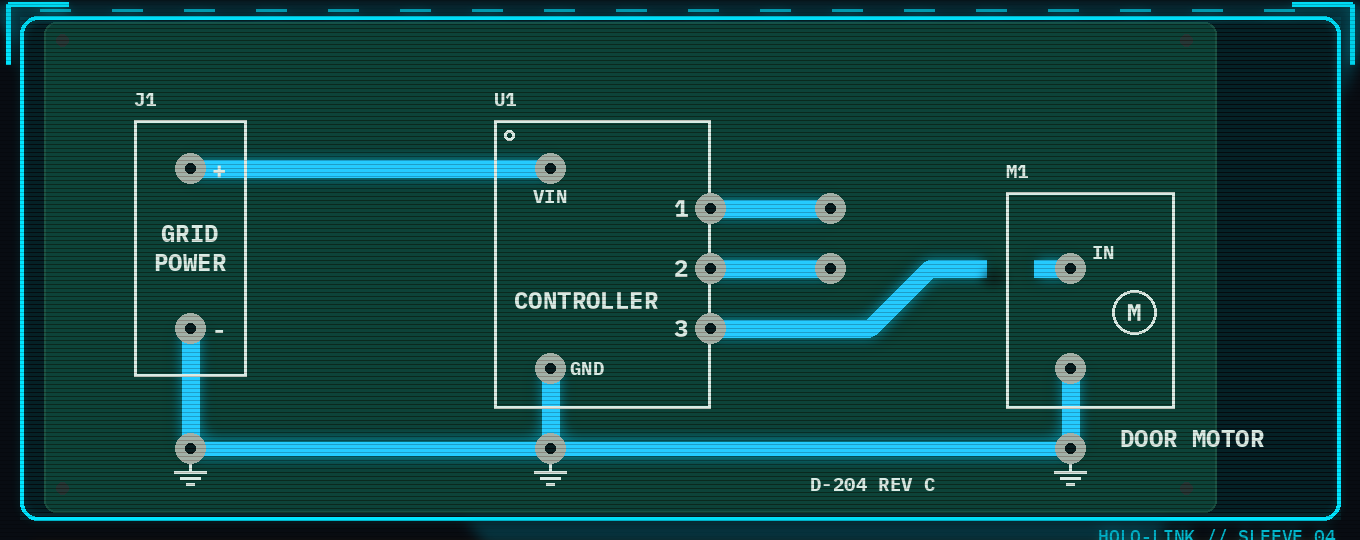
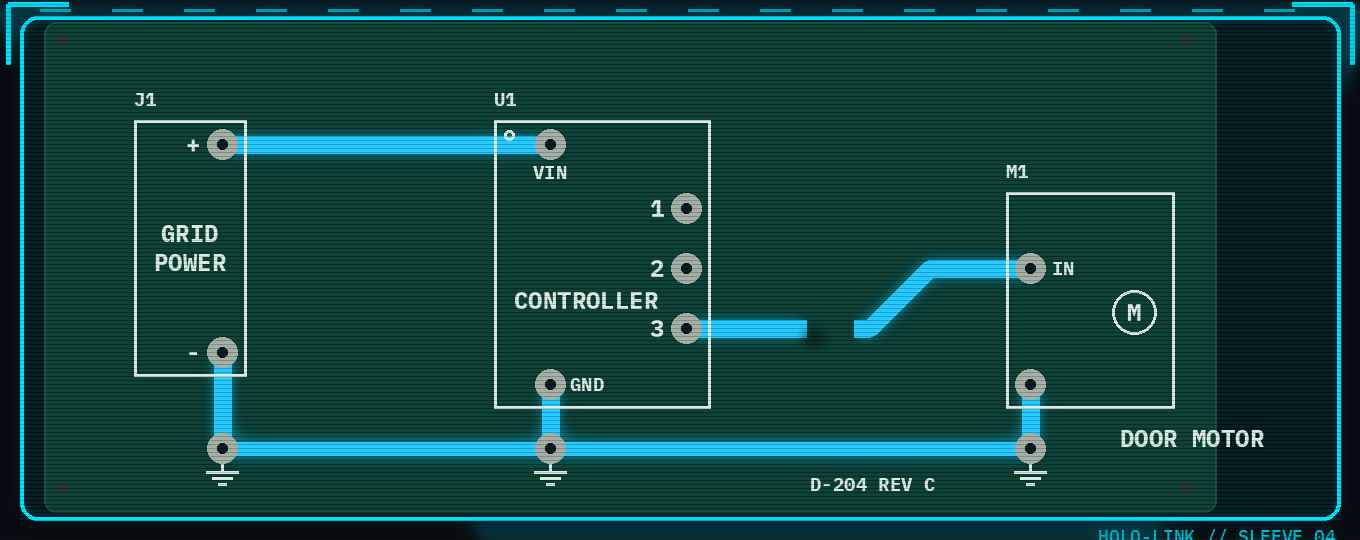
Sloane: simple final rev2 - break mid-trace, pads inset from silkscreen (7.5px), P1/P2 stubs+TP pads removed (intentional NC)

diff --git a/design/ui/troubleshoot_simple_final/README.md b/design/ui/troubleshoot_simple_final/README.md
@@ -3,10 +3,12 @@ Source: simple r3 #03 holo_panels, picked by Jared with changes.
 
 - **Board:** green PCB and off-white silkscreen from r2/r3, inside the cyan/amber wrist-holo frame (#03 chrome level).
 - **Traces:** uniform blue neon. There is no current-flow animation and no brightness variation, so lit versus unlit doesn't hint at anything.
-- **Fault:** the U1 pin 3 → M1.IN (DOOR MOTOR input) trace has a missing chunk and a subtle burn, with no spark. GRID POWER → U1.VIN is intact. Pins 1 and 2 are bare stubs.
+- **Fault:** the U1 pin 3 → M1.IN (DOOR MOTOR input) trace has a missing chunk and a subtle burn, with no spark. GRID POWER → U1.VIN is intact. The break sits mid-trace, clear of all silkscreen. Pins 1 and 2 are bare pads with no trace (intentional no-connects; the player draws the trace).
 - **Python:** the only editable value is `MOTOR_PIN` (amber entry box, default 1, correct 3).
 - **Decision: no RUN button.** The value applies when the player commits the entry box, by pressing Enter or leaving the field (focus-out). DUTY was removed.
 - **Win:** repair the break AND set `MOTOR_PIN = 3`. The window never auto-closes; it closes only on EXIT.
 - **No hints:** consumables show as icons with quantities only.
 
 Files: `troubleshoot_simple_final_mockup.png`, `troubleshoot_simple_final_board_only.png`, `simple_final_netlist.json/.md`, `simple_final_board_geom.json`, `validation_report.md`.
+
+**Pad placement (rev 2):** every component pad sits inside its silkscreen outline, close to the edge. The gap from pad edge to outline is 7.5 px at 40 px/grid (pad r = 15 px, silkscreen line 3 px). The break is 96 px from the nearest outline.

diff --git a/design/ui/troubleshoot_simple_final/simple_final_netlist.md b/design/ui/troubleshoot_simple_final/simple_final_netlist.md
@@ -6,15 +6,14 @@ From r3 #03 holo_panels. Geometry: `simple_final_board_geom.json`.
 | J1 | GRID POWER | hab grid feed | +, − |
 | U1 | CONTROLLER | door controller | VIN, GND, P1 / P2 / P3 (silk 1 / 2 / 3) |
 | M1 | DOOR MOTOR | hatch actuator motor | IN, GND |
-| TP1, TP2 | — | bare landing pads | 1 |
 | GND1–GND3 | ⏚ | ground ties, joined on bottom layer | 1 |
 
 | Net | Nodes | Notes |
 |---|---|---|
 | GRID_V+ | J1.+ → U1.VIN | intact |
 | GND | J1.− → GND1, U1.GND → GND2, M1.GND → GND3; GND1–GND2–GND3 bottom layer | |
-| OUT1 / OUT2 | U1.P1 → TP1, U1.P2 → TP2 | **intentional stubs**, lead nowhere |
-| OUT3 | U1.P3 → M1.IN | **intended open**: trace chunk missing + subtle burn near M1.IN |
+| OUT1 / OUT2 | U1.P1, U1.P2 | **intentional no-connect** pads, no trace (player draws) |
+| OUT3 | U1.P3 → M1.IN | **intended open**: trace chunk missing + subtle burn mid-trace (between U1 and the 45° jog) |
 
 Series loop J1.+ → U1 → P3 →(break)→ M1.IN → M1 → GND → J1.− is open: no current, traces are uniform unlit neon.
 **Win:** repair the OUT3 break AND set `MOTOR_PIN = 3` (default 1). Window stays open until EXIT.

diff --git a/design/ui/troubleshoot_simple_final/validation_report.md b/design/ui/troubleshoot_simple_final/validation_report.md
@@ -2,8 +2,8 @@
 Validator: `tools/pcb_validate.py` on `simple_final_board_geom.json` (mockup and board-only render the same geometry).
 
 ## Result: PASS
-- 5 nets, 14 pads, 0 vias, 10 traces / 12 segments, 2 bends (45°), two layers (GND tie on bottom)
+- 5 nets, 12 pads, 0 vias, 8 traces / 10 segments, 2 bends (45°), two layers (GND tie on bottom)
 - Errors: 0
 - Expected opens: OUT3: expected open between ['M1.IN'] and ['U1.P3']
-- Intentional no-connects: none (M1.IN flag removed; it is on OUT3)
-- OUT1/OUT2 stubs end on bare pads TP1/TP2 (pad-to-pad), declared intentional in the netlist.
+- Intentional no-connects: U1.P1 (OUT1): intentional no-connect; U1.P2 (OUT2): intentional no-connect
+- Break moved to mid-trace (px 846-894); nearest silkscreen outline 96px away. Pads moved inside component edges: pad-edge to outline gap 7.5 px for every component pin (≥3 px required); details in README.
